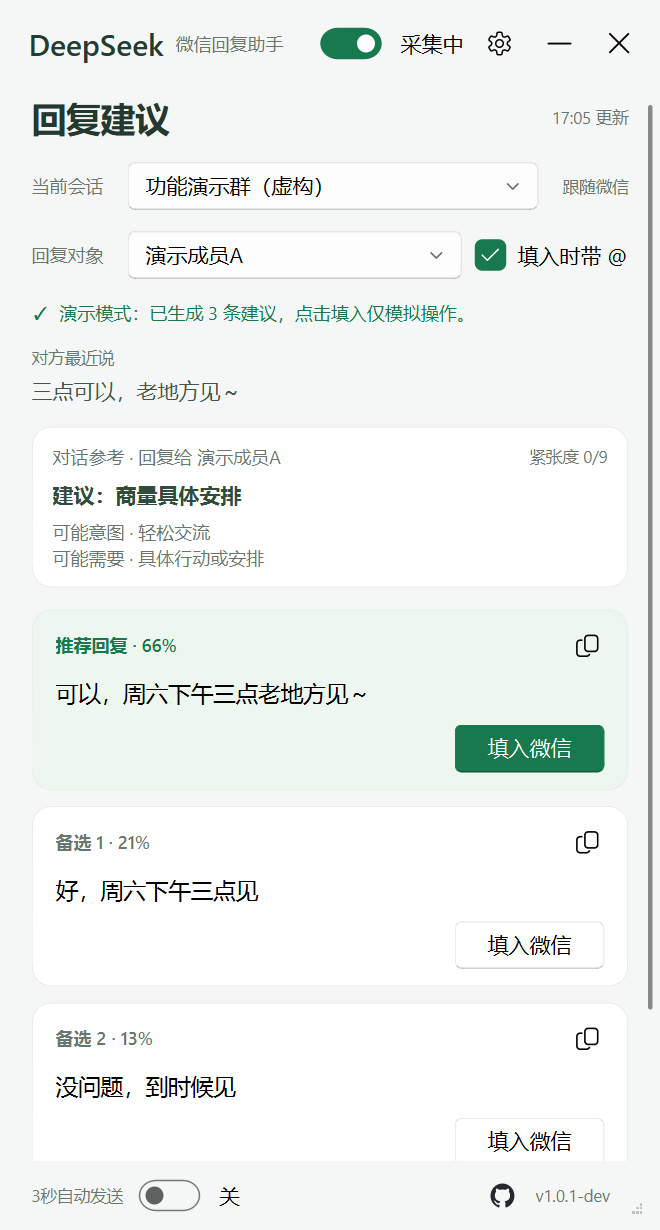
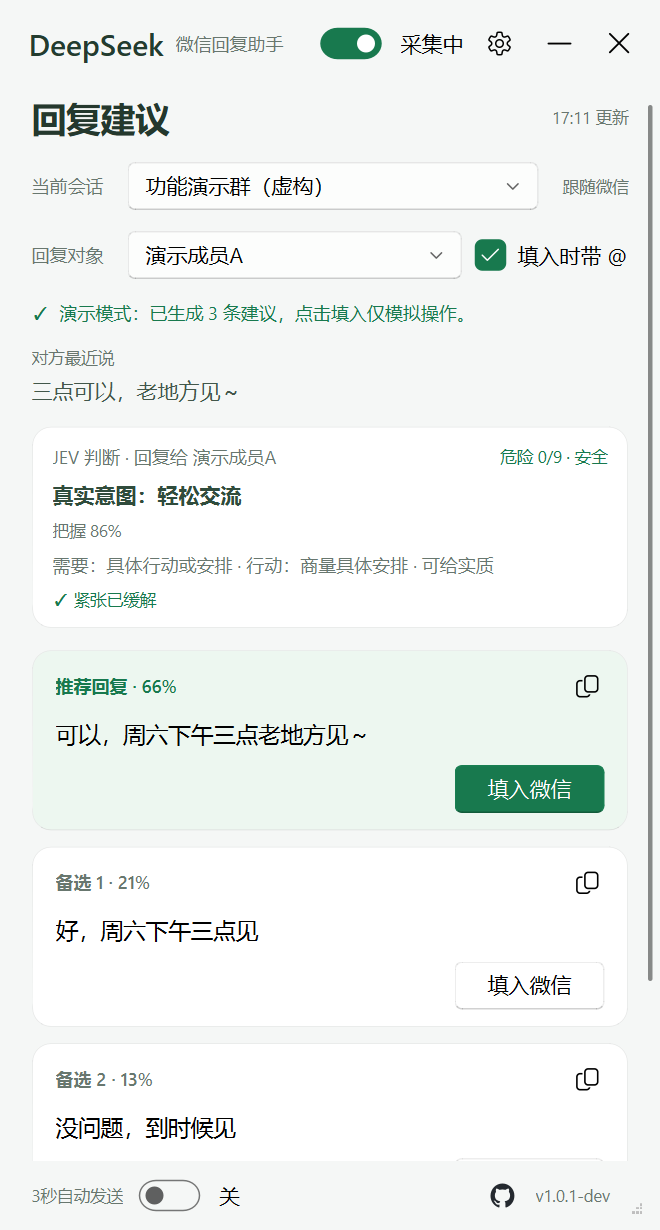
feat: expand JEV judgment details

diff --git a/app/overlay.py b/app/overlay.py
@@ -22,6 +22,8 @@ from app.version import VERSION
 _LOG_LINES = 300
 _MUTED = "#68776f"
 _GREEN = "#18794e"
+_AMBER = "#996819"
+_RED = "#b44832"
 _PROJECT_URL = "https://github.com/Aimark-dai/jev-chat-windows-deepseek-jev"
 _CHOICES = {
     "true_intent": {
@@ -48,6 +50,13 @@ _RELATIONSHIPS = [
 
 def _choice(answers, name):
     return _CHOICES[name].get((answers.get(name) or {}).get("choice"), "暂未判断")
+
+
+def _finite_number(value, lowest=0.0, highest=1.0):
+    if isinstance(value, bool) or not isinstance(value, (int, float)):
+        return None
+    value = float(value)
+    return value if isfinite(value) and lowest <= value <= highest else None
 
 
 def _label(text="", size=14, color=None, bold=False, parent=None):
@@ -402,7 +411,7 @@ class Overlay:
         insight_box.setContentsMargins(14, 12, 14, 12)
         insight_box.setSpacing(7)
         row = QHBoxLayout()
-        self.insightTitle = _label("对话参考", 12, _MUTED)
+        self.insightTitle = _label("JEV 判断", 12, _MUTED)
         row.addWidget(self.insightTitle, 1)
         self.tension = _label("", 11)
         self.tension.setAlignment(Qt.AlignRight | Qt.AlignVCenter)
@@ -410,9 +419,13 @@ class Overlay:
         insight_box.addLayout(row)
         self.summary = _label("", 14, "#304c3c", True)
         insight_box.addWidget(self.summary)
+        self.intentConfidence = _label("", 11, _MUTED)
+        insight_box.addWidget(self.intentConfidence)
         self.intent = _label("", 12, _MUTED)
         insight_box.addWidget(self.intent)
-        self.insight.setToolTip("根据当前聊天片段推测，可能理解有偏差。紧张度为 0–9 的参考评分。")
+        self.resolution = _label("", 11, _GREEN)
+        insight_box.addWidget(self.resolution)
+        self.insight.setToolTip("JEV 根据当前聊天片段判断；危险度和把握度仅供回复前参考。")
         self.insight.hide()
         body.addWidget(self.insight)
 
@@ -1037,17 +1050,34 @@ class Overlay:
             self.replyBox.addWidget(card)
             self.cards.append(card)
         reply_to = result.get("reply_to")
-        self.insightTitle.setText(f"对话参考 · 回复给 {reply_to}" if reply_to else "对话参考")
+        self.insightTitle.setText(f"JEV 判断 · 回复给 {reply_to}" if reply_to else "JEV 判断")
         answers = result.get("answers") or {}
-        self.summary.setText("建议：" + _choice(answers, "best_action"))
-        self.intent.setText("可能意图 · " + _choice(answers, "true_intent") +
-                            "\n可能需要 · " + _choice(answers, "she_needs"))
-        score = (answers.get("danger_level") or {}).get("score")
-        valid_score = isinstance(score, (int, float)) and isfinite(score) and 0 <= score <= 9
-        self.tension.setText(f"紧张度 {score:.0f}/9" if valid_score else "紧张度待判断")
-        color = "#996819" if valid_score and score >= 3 else _MUTED
-        if valid_score and score >= 6:
-            color = "#b44832"
+        true_intent = answers.get("true_intent") or {}
+        self.summary.setText("真实意图：" + _choice(answers, "true_intent"))
+        confidence = _finite_number(true_intent.get("confidence"))
+        self.intentConfidence.setText(f"把握 {confidence * 100:.0f}%" if confidence is not None else "")
+        self.intentConfidence.setVisible(confidence is not None)
+        details = [
+            "需要：" + _choice(answers, "she_needs"),
+            "行动：" + _choice(answers, "best_action"),
+        ]
+        reply_probability = _finite_number((answers.get("should_reply_now") or {}).get("noul"))
+        if reply_probability is not None:
+            details.append("可给实质" if reply_probability >= 0.5 else "先别给实质")
+        self.intent.setText(" · ".join(details))
+        resolved_probability = _finite_number((answers.get("tension_resolved") or {}).get("noul"))
+        resolved = resolved_probability is not None and resolved_probability >= 0.7
+        self.resolution.setText("✓ 紧张已缓解" if resolved else "")
+        self.resolution.setVisible(resolved)
+        score = _finite_number((answers.get("danger_level") or {}).get("score"), highest=9)
+        if score is not None:
+            danger_word = "很危险" if score >= 8 else "偏危险" if score >= 6 else "留神" if score >= 3 else "安全"
+            self.tension.setText(f"危险 {score:.0f}/9 · {danger_word}")
+        else:
+            self.tension.setText("危险度待判断")
+        color = _AMBER if score is not None and score >= 3 else _GREEN if score is not None else _MUTED
+        if score is not None and score >= 6:
+            color = _RED
         qss = f"BodyLabel {{ color: {color}; background: transparent; }}"
         setCustomStyleSheet(self.tension, qss, qss)
         self.empty.setVisible(not self.cands)

diff --git a/tests/test_typesafe_client.py b/tests/test_typesafe_client.py
@@ -59,6 +59,7 @@ class TypeSafeClientTests(unittest.TestCase):
         self.assertEqual(captured["auth"], "Bearer typesafe-test-key")
         self.assertEqual(captured["timeout"], 7)
         self.assertEqual(result["answers"]["best_reply"]["choice"], "reply_b")
+        self.assertEqual(result["answers"]["best_reply"]["confidence"], 0.9)
 
     def test_ask_rejects_choice_outside_question_criteria(self):
         questions = {
@@ -98,6 +99,25 @@ class TypeSafeClientTests(unittest.TestCase):
                 result = typesafe_client.ask({"messages": []}, questions)
 
         self.assertEqual(result["answers"]["literal_question"]["noul"], 0.65)
+
+    def test_ask_rejects_invalid_choice_confidence(self):
+        questions = {
+            "true_intent": {
+                "type": "choice",
+                "criteria": {"casual_chat": "chat", "request_action": "action"},
+            }
+        }
+        response = {
+            "answers": {
+                "true_intent": {
+                    "type": "choice", "choice": "casual_chat", "confidence": 1.2,
+                }
+            }
+        }
+        with patch.dict(os.environ, {"TYPESAFE_API_KEY": "typesafe-test-key"}, clear=False):
+            with patch("urllib.request.urlopen", return_value=_Response(response)):
+                with self.assertRaisesRegex(typesafe_client.JevError, "confidence 超出 0-1"):
+                    typesafe_client.ask({"messages": []}, questions)
 
 
 if __name__ == "__main__":

diff --git a/core/typesafe_client.py b/core/typesafe_client.py
@@ -60,6 +60,14 @@ def _validate_answers(data: dict, questions: dict) -> dict:
         if choice not in allowed:
             raise JevError(f"TypeSafe JEV 返回结果 {name}.choice={choice!r} 不在允许值中")
         normalized_item = {"type": kind, "choice": choice}
+        confidence = item.get("confidence")
+        if confidence is not None:
+            if isinstance(confidence, bool) or not isinstance(confidence, (int, float)):
+                raise JevError(f"TypeSafe JEV 返回结果 {name}.confidence 不是概率")
+            confidence = float(confidence)
+            if not math.isfinite(confidence) or not 0 <= confidence <= 1:
+                raise JevError(f"TypeSafe JEV 返回结果 {name}.confidence 超出 0-1")
+            normalized_item["confidence"] = confidence
         probabilities = item.get("probabilities")
         if probabilities is not None:
             if not isinstance(probabilities, dict):

diff --git a/tools/preview_ui.py b/tools/preview_ui.py
@@ -42,7 +42,7 @@ _RESULT = {
     "scores": [0.21, 0.66, 0.13],
     "answers": {
         "literal_question": {"type": "noul", "noul": 0.98},
-        "true_intent": {"type": "choice", "choice": "casual_chat"},
+        "true_intent": {"type": "choice", "choice": "casual_chat", "confidence": 0.86},
         "danger_level": {"type": "score", "score": 0},
         "should_reply_now": {"type": "noul", "noul": 0.96},
         "best_action": {"type": "choice", "choice": "make_plan"},

diff --git a/README.md b/README.md
@@ -85,7 +85,7 @@ DeepSeek 按预判生成 3 条候选 → TypeSafe JEV 复审排序 → 一键填
   还能选回复给谁，三条候选都按 TA 写，填入时可带「@名字 」前缀（纯文本）。
 - **3 条候选**：每条带 Jev 给的胜出概率百分比，按概率排序，推荐那条置顶并标「推荐回复」；
   每条都有「填入微信」和复制按钮。
-- **判断摘要**：建议动作、可能意图、对方可能需要、紧张度 0–9。
+- **JEV 判断摘要**：危险度 0–9 及安全提示、真实意图和把握度、对方需要、建议行动、是否适合给出实质内容。
 - **采集开关**：标题栏一拨就停，WGC 会话一起停掉（Win10 的黄框跟着消失），已有候选不受影响。
 - **实时聊天记录**：底部展开，看 OCR 到底读出了什么，认错了一眼就能发现。
 - **JEV 全链路优化**：先判断意图、风险和行动，再指导 DeepSeek 生成并复审；不合格最多重写一次。

diff --git a/CHANGELOG.md b/CHANGELOG.md
@@ -2,6 +2,17 @@
 
 ## [Unreleased]
 
+## [1.0.2] - 2026-09-22
+
+### Added
+
+- JEV 判断卡片增加危险等级与安全提示、真实意图把握度、对方需要、建议行动和是否适合给出实质内容。
+- JEV 判断紧张已缓解时在卡片内明确提示。
+
+### Fixed
+
+- 保留并校验 TypeSafe JEV 返回的选择题置信度，避免界面丢失“把握度”。
+
 ## [1.0.1] - 2026-09-22
 
 ### Changed
